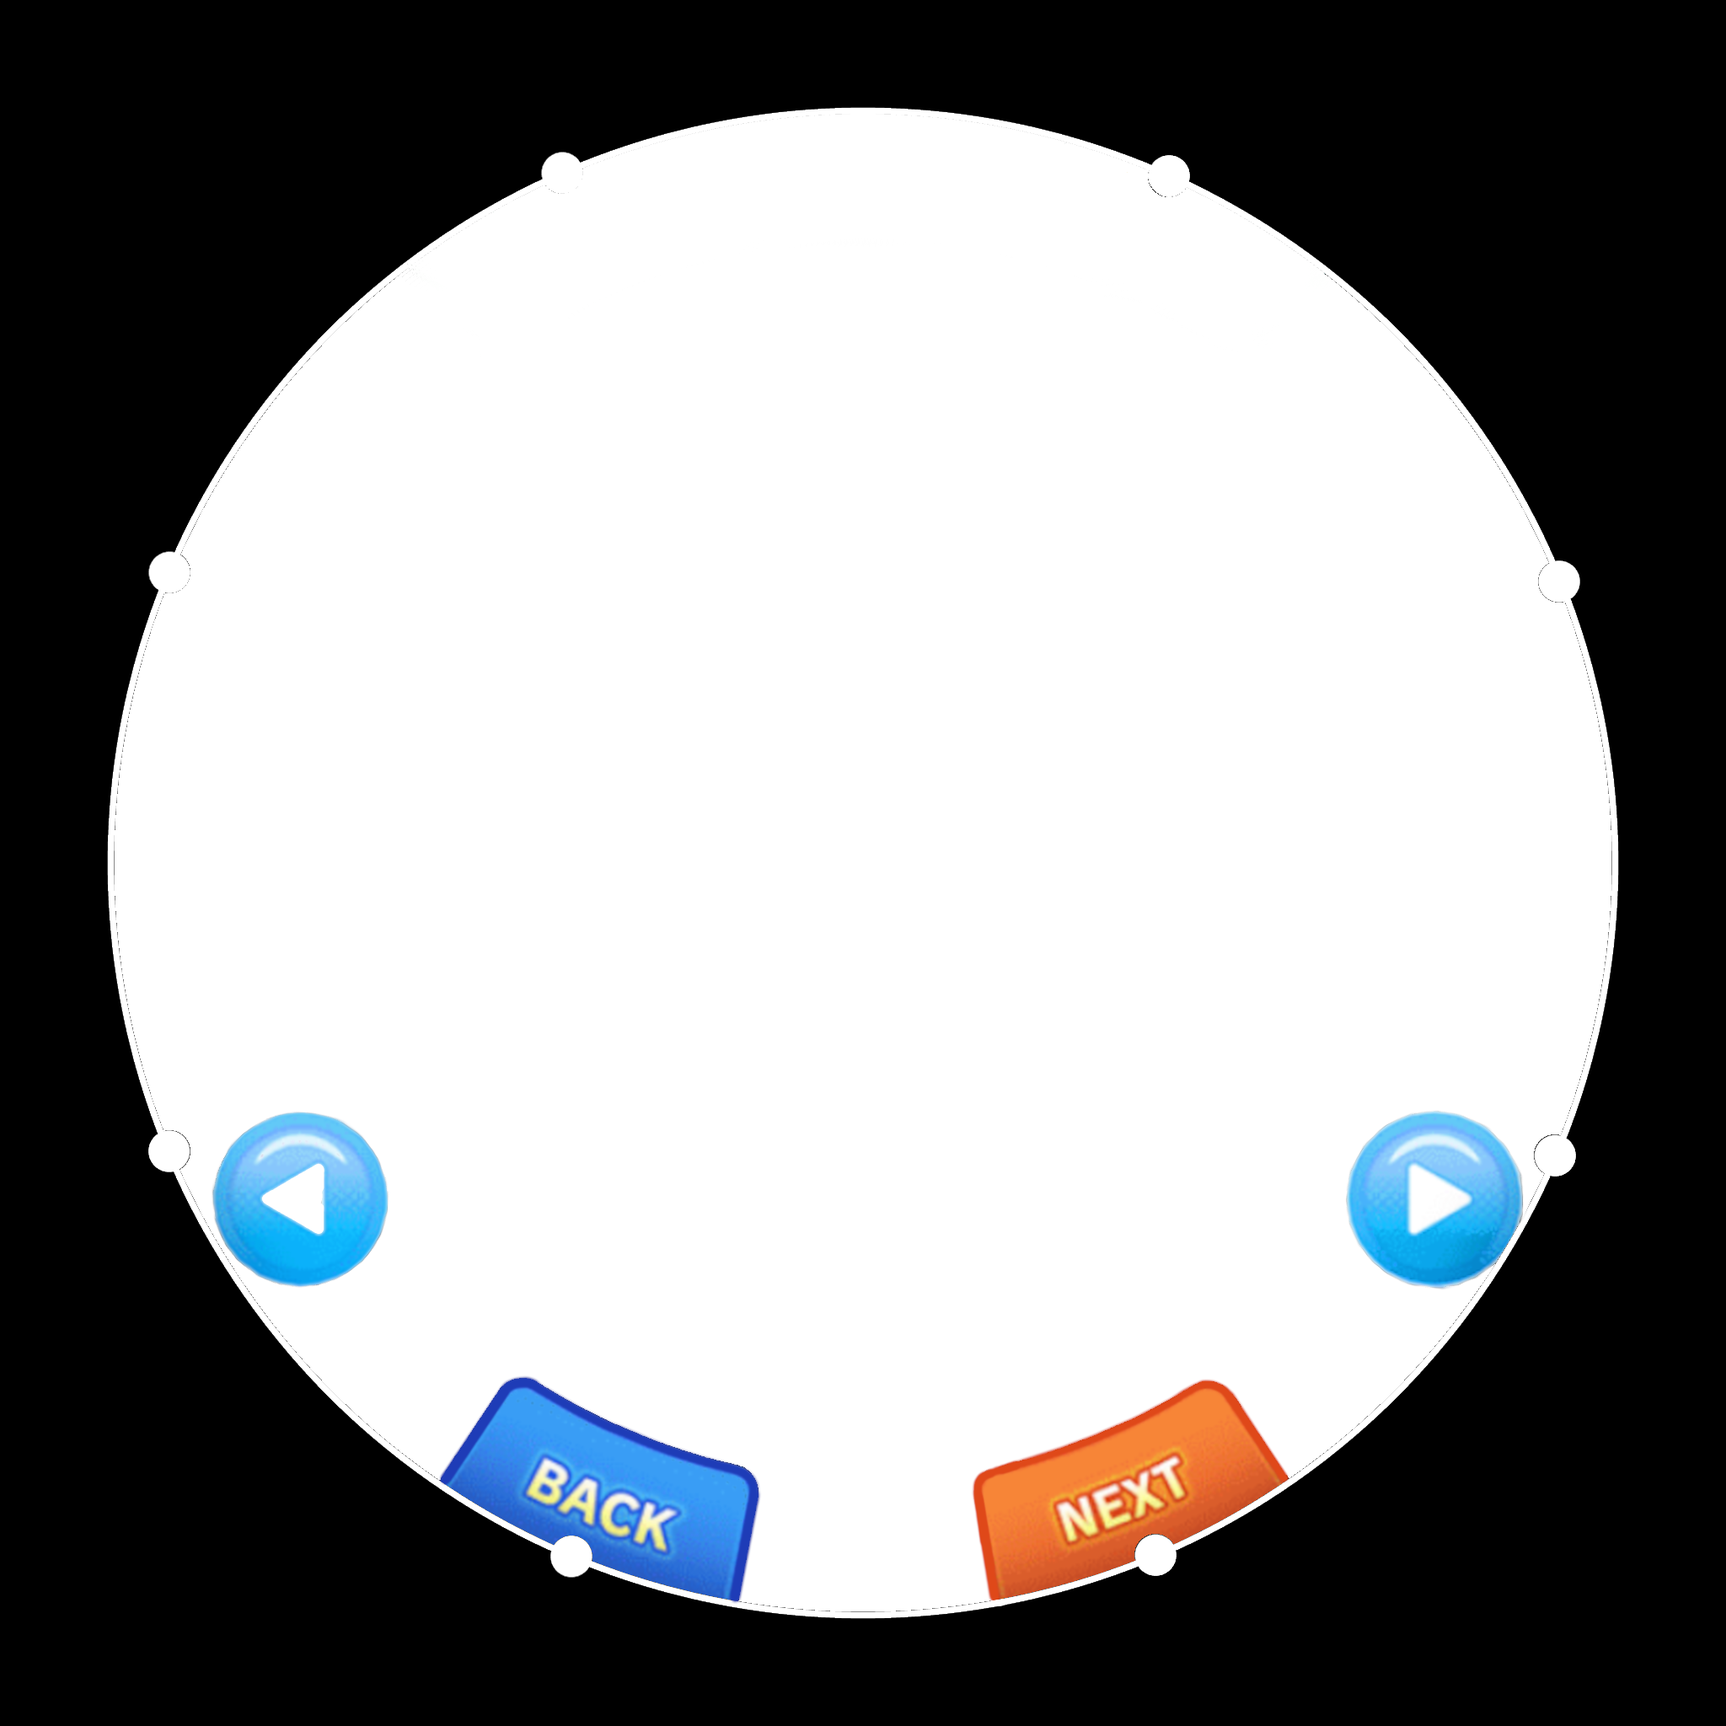
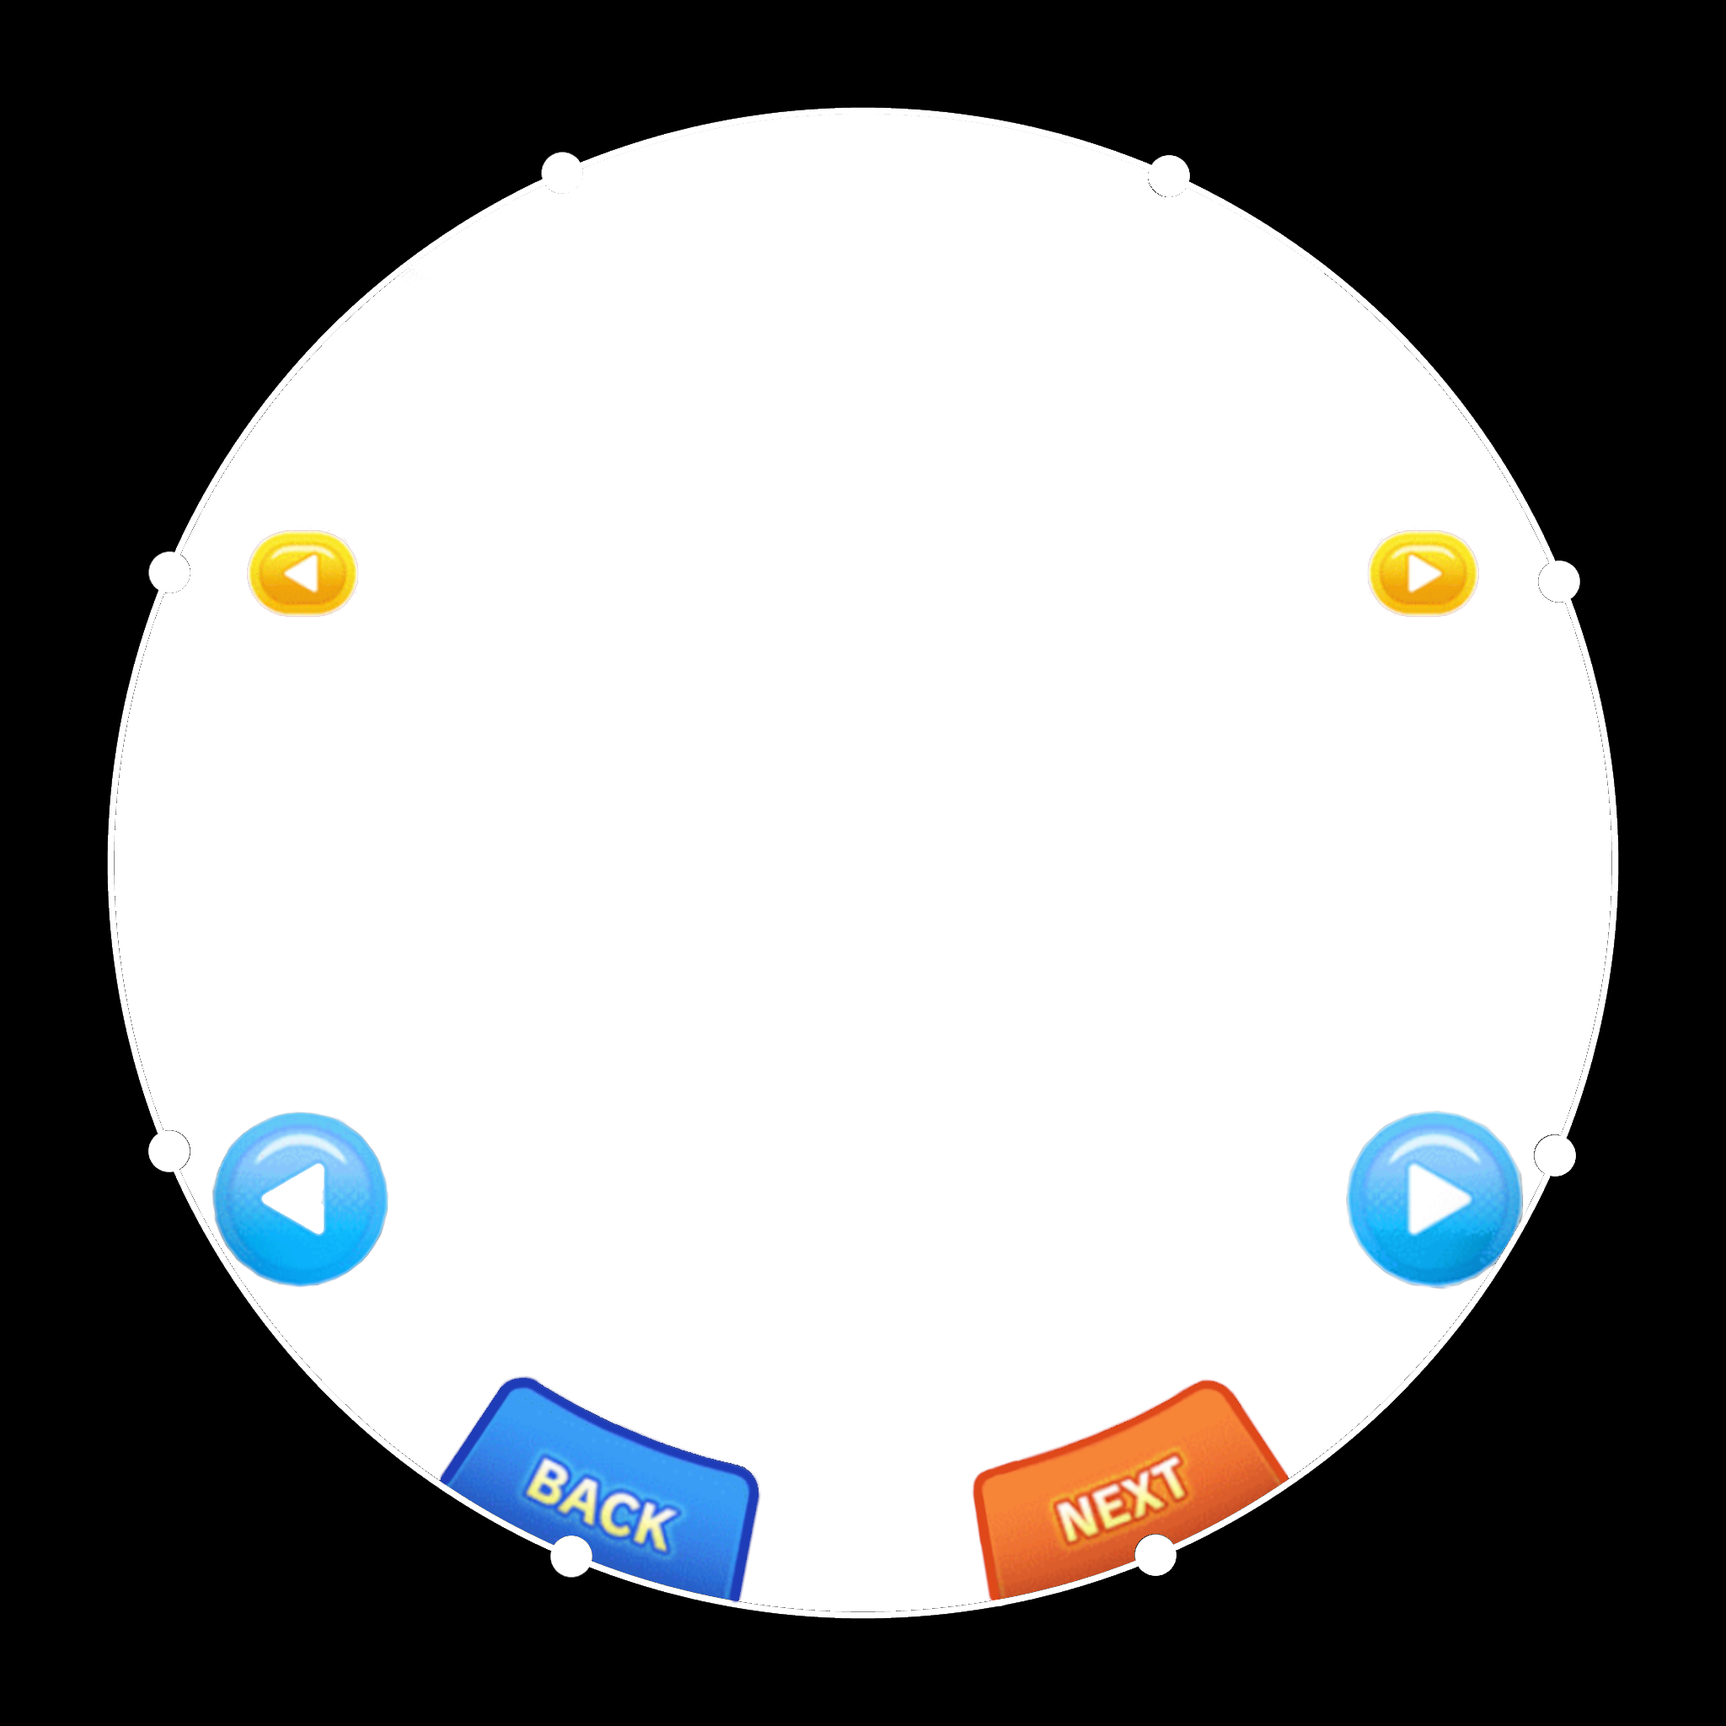
genre switch

Changed region(s): [[0.7812, 0.2812, 0.875, 0.375], [0.125, 0.2812, 0.2188, 0.375]]

diff --git a/assets/gui.py b/assets/gui.py
@@ -6,6 +6,10 @@ import os
 import threading
 from os import walk
 
+# class GenreSelectionGUI:
+#     def __init__(self,):
+#         pass
+
 def fade_image(image_path):
     display_size = pygame.display.Info().current_w , pygame.display.Info().current_h - 50
     screen = pygame.display.set_mode(display_size)
@@ -134,40 +138,60 @@ class MainGUI:
     def animate_in_chart(self, img):
         display_size = pygame.display.Info().current_w , pygame.display.Info().current_h
         w, h = display_size
+        diffcuiltynames  = [
+            '','',
+            'Basic',
+            'Advancced',
+            'Expert',
+            'Master',
+        ]
+        font = pygame.font.Font("./assets/fonts/japanese.ttf",15)
+        diffcuilty_surface = font.render(diffcuiltynames[self.diffcuilty], False, (0,0,0))
         for i in range (0,255,8): 
             img.set_alpha(i)         
             time.sleep(0.001)
             
             background_surface = pygame.Surface(display_size)
-            background_surface.fill(pygame.Color("#626262"))
+            background_surface.fill(pygame.Color("#000000"))
             background_surface2 = pygame.Surface((img.get_rect().width, img.get_rect().height))
             background_surface2.fill(pygame.Color('#FFFFFF'))
             
             self.display.blit(background_surface, (0, 0))
             self.display.blit(self.chartimg, self.chartpos)
-            self.display.blit(self.textsurface, ((0.5*w )- (self.textsurface.get_rect().centerx), 0.2*h - self.textsurface.get_rect().centery))
-
+            self.display.blit(self.textsurface, ((0.5*w )- (self.textsurface.get_rect().centerx), 0.3*h - self.textsurface.get_rect().centery))
+            
+            self.display.blit(diffcuilty_surface, (w/2 - diffcuilty_surface.get_rect().centerx,100))
             self.display.blit(background_surface2, (0.5*w - img.get_rect().centerx,0.5*h-img.get_rect().centery))
-            self.display.blit(img, (0.5*w - img.get_rect().centerx,0.5*h-img.get_rect().centery))
+            self.display.blit(img, (0.5*w - img.get_rect().centerx,0.55*h-img.get_rect().centery))
 
             pygame.display.update()
         self.oldselection = self.currentselection
     def animate_out_chart(self,img):
+        diffcuiltynames  = [
+            '','',
+            'Basic',
+            'Advancced',
+            'Expert',
+            'Master',
+        ]
+        font = pygame.font.Font("./assets/fonts/japanese.ttf",15)
+        diffcuilty_surface = font.render(diffcuiltynames[self.diffcuilty], False, (0,0,0))
         for i in range (255, 0, -8): 
             img.set_alpha(i)         
             time.sleep(0.001)
             display_size = pygame.display.Info().current_w , pygame.display.Info().current_h
             w, h = display_size
             background_surface = pygame.Surface(display_size)
-            background_surface.fill(pygame.Color("#626262"))
+            background_surface.fill(pygame.Color("#000000"))
             background_surface2 = pygame.Surface((img.get_rect().width, img.get_rect().height))
             background_surface2.fill(pygame.Color('#FFFFFF'))
             self.display.blit(background_surface, (0, 0))
             self.display.blit(self.chartimg, self.chartpos)
-            self.display.blit(self.textsurface, ((0.5*w )- (self.textsurface.get_rect().centerx), 0.2*h - self.textsurface.get_rect().centery))
-
+            self.display.blit(self.textsurface, ((0.5*w )- (self.textsurface.get_rect().centerx), 0.3*h - self.textsurface.get_rect().centery))
+            
+            self.display.blit(diffcuilty_surface, (w/2 - diffcuilty_surface.get_rect().centerx,100))
             self.display.blit(background_surface2, (0.5*w - img.get_rect().centerx,0.5*h-img.get_rect().centery))
-            self.display.blit(img, (0.5*w - img.get_rect().centerx,0.5*h-img.get_rect().centery))
+            self.display.blit(img, (0.5*w - img.get_rect().centerx,0.55*h-img.get_rect().centery))
             pygame.display.update()
     def run(self):
         self.diffcuilty = 2
@@ -184,9 +208,10 @@ class MainGUI:
         
 
         clock = pygame.time.Clock()
-        font = pygame.font.Font("./assets/fonts/japanese.ttf",20)
-        titlefont = pygame.font.Font("./assets/fonts/japanese.ttf",40)
-        titletext = titlefont.render('Python MaiMai Simulator', True, (0,0,0))
+        font = pygame.font.Font("./assets/fonts/japanese.ttf",15)
+        logofont = pygame.font.Font("./assets/fonts/japanese.ttf",40)
+        titlefont = pygame.font.Font("./assets/fonts/japanese.ttf",30)
+        titletext = logofont.render('Python MaiMai Simulator', True, (0,0,0))
         self.animate_in(titletext)
         
         
@@ -201,10 +226,10 @@ class MainGUI:
         self.chartpos = self.chartimg.get_rect(center = self.display.get_rect().center) 
 
         background_surface = pygame.Surface(display_size)
-        background_surface.fill(pygame.Color("#626262"))
+        background_surface.fill(pygame.Color("#000000"))
         
         
-        self.textsurface = font.render(genre, True, (0, 0, 0))
+        self.textsurface = titlefont.render(genre, True, (0, 0, 0))
         
         self.currentselection = 0
         
@@ -226,12 +251,11 @@ class MainGUI:
         print(genre)
         pressedlist = []
 
-        self.currentselectionflock = Lock()
-        self.currentselectionblock = Lock()
+        self.buttonlock = [0,0,0,0,0,0,0,0]
         self.oldselection = 0
         # background_surface.blit(background_surface, (0, 0))
         background_surface.blit(self.chartimg, self.chartpos)
-        background_surface.blit(self.textsurface, ((0.5*w )- (self.textsurface.get_rect().centerx), 0.2*h - self.textsurface.get_rect().centery))
+        background_surface.blit(self.textsurface, ((0.5*w )- (self.textsurface.get_rect().centerx), 0.3*h - self.textsurface.get_rect().centery))
         for song in self.songlist:
             if song.genre == genre:
                 # print(self.path+self.genrelist[genre])
@@ -247,12 +271,12 @@ class MainGUI:
             songimg = pygame.image.load(io.BytesIO(zip.read(song.img)))
 
         
-        songsurface = pygame.Surface((0.5*h, 0.5*h))
+        songsurface = pygame.Surface((0.25*h, 0.30*h))
         songsurface.fill((255,255,255))
-        songsurface.blit(pygame.transform.scale(songimg, (0.45*h,0.45*h)), (0.025*h,0))
+        songsurface.blit(pygame.transform.scale(songimg, (0.225*h,0.225*h)), (0.0125*h,0))
         text = font.render(song.name, True, (0,0,0))
-        songsurface.blit(text, (songsurface.get_rect().centerx-text.get_rect().centerx, 0.9*songsurface.get_rect().height))
-        background_surface.blit(songsurface, (0.5*w - songsurface.get_rect().centerx,0.5*h-songsurface.get_rect().centery))
+        songsurface.blit(text, (songsurface.get_rect().centerx-text.get_rect().centerx, 0.85*songsurface.get_rect().height))
+        background_surface.blit(songsurface, (0.5*w - songsurface.get_rect().centerx,0.55*h-songsurface.get_rect().centery))
         time.sleep(0.5)
         clock.tick(60)
         self.animate_out(titletext)
@@ -266,7 +290,7 @@ class MainGUI:
             
             self.display.blit(background_surface, (0, 0))
             self.display.blit(self.chartimg, self.chartpos)
-            self.display.blit(self.textsurface, ((0.5*w )- (self.textsurface.get_rect().centerx), 0.2*h - self.textsurface.get_rect().centery))
+            self.display.blit(self.textsurface, ((0.5*w )- (self.textsurface.get_rect().centerx), 0.30*h - self.textsurface.get_rect().centery))
             if self.currentselection < 0:
                 self.currentselection = 0
             if self.currentselection > self.nextgenreindex-self.genreoffset:
@@ -274,26 +298,26 @@ class MainGUI:
             if self.oldselection != self.currentselection:
                 self.animate_out_chart(songsurface)
                 song = self.songlist[self.currentselection]
-                songsurface = pygame.Surface((0.5*h, 0.5*h))
+                songsurface = pygame.Surface((0.25*h, 0.30*h))
                 songsurface.fill((255,255,255))
                 song = self.songlist[self.genreoffset+self.currentselection]
                 with ZipFile(self.path+self.genrelist[genre], 'r') as zip: 
                     songimg = pygame.image.load(io.BytesIO(zip.read(song.img)))
-                songsurface.blit(pygame.transform.scale(songimg, (0.45*h,0.45*h)), (0.025*h,0))
+                songsurface.blit(pygame.transform.scale(songimg, (0.225*h,0.225*h)), (0.0125*h,0))
                 text = font.render(song.name, True, (0,0,0))
-                songsurface.blit(text, (songsurface.get_rect().centerx-text.get_rect().centerx, 0.9*songsurface.get_rect().height))
+                songsurface.blit(text, (songsurface.get_rect().centerx-text.get_rect().centerx, 0.85*songsurface.get_rect().height))
                 self.animate_in_chart(songsurface)
             else:
                 song = self.songlist[self.currentselection]
-                songsurface = pygame.Surface((0.5*h, 0.5*h))
+                songsurface = pygame.Surface((0.25*h, 0.30*h))
                 songsurface.fill((255,255,255))
                 song = self.songlist[self.genreoffset+self.currentselection]
                 with ZipFile(self.path+self.genrelist[genre], 'r') as zip: 
                     songimg = pygame.image.load(io.BytesIO(zip.read(song.img)))
-                songsurface.blit(pygame.transform.scale(songimg, (0.45*h,0.45*h)), (0.025*h,0))
+                songsurface.blit(pygame.transform.scale(songimg, (0.225*h,0.225*h)), (0.0125*h,0))
                 text = font.render(song.name, True, (0,0,0))
-                songsurface.blit(text, (songsurface.get_rect().centerx-text.get_rect().centerx, 0.9*songsurface.get_rect().height))
-                self.display.blit(songsurface, (0.5*w - songsurface.get_rect().centerx,0.5*h-songsurface.get_rect().centery))
+                songsurface.blit(text, (songsurface.get_rect().centerx-text.get_rect().centerx, 0.85*songsurface.get_rect().height))
+                self.display.blit(songsurface, (0.5*w - songsurface.get_rect().centerx,0.55*h-songsurface.get_rect().centery))
                 
             for event in pygame.event.get():
                 if event.type == pygame.QUIT:
@@ -333,26 +357,65 @@ class MainGUI:
                             # print(f'Button {touch} up')
                             pressedlist.remove(touch)
 
-            
+            if 1 in pressedlist:
+                if self.buttonlock[1] == 0:
+                    index = list(self.genrelist).index(genre) + 1
+                    if index == len(self.genrelist):
+                        index = 0
+                    
+                    genre = list(self.genrelist)[index]
+                    self.textsurface = titlefont.render(genre, True, (0, 0, 0))
+                    for song in self.songlist:
+                        if song.genre == genre:
+                            # print(self.path+self.genrelist[genre])
+                            self.genreoffset = self.songlist.index(song)
+                            for song in self.songlist[self.genreoffset+1:]:
+                                if song.genre != genre:
+                                    self.nextgenreindex = self.songlist.index(song)
+                                    break
+                            break
+                self.buttonlock[1] += 1
+            elif self.buttonlock[1] >= 5:
+                self.buttonlock[1] = 0
+            if 6 in pressedlist:
+                if self.buttonlock[6] == 0:
+                    index = list(self.genrelist).index(genre) - 1
+                    if index > 0:
+                        index = len(self.genrelist)-1
+                    genre = list(self.genrelist)[index]
+                    self.textsurface = titlefont.render(genre, True, (0, 0, 0))
+                    for song in self.songlist:
+                        if song.genre == genre:
+                            # print(self.path+self.genrelist[genre])
+                            self.genreoffset = self.songlist.index(song)
+                            for song in self.songlist[self.genreoffset+1:]:
+                                if song.genre != genre:
+                                    self.nextgenreindex = self.songlist.index(song)
+                                    break
+                            break
+
+                self.buttonlock[6] += 1
+            elif self.buttonlock[6] >= 5:
+                self.buttonlock[6] = 0
                 
             if 2 in pressedlist:
-                if self.currentselectionflock.counter == 0:
+                if self.buttonlock[2] == 0:
                     self.currentselection += 1
                     print(self.currentselection)
-                self.currentselectionflock.counter += 1
-            elif self.currentselectionflock.counter >= 5:
-                self.currentselectionflock.counter = 0
+                self.buttonlock[2] += 1
+            elif self.buttonlock[2] >= 5:
+                self.buttonlock[2] = 0
 
             if 5 in pressedlist:
-                if self.currentselectionblock.counter == 0:
+                if self.buttonlock[5] == 0:
                     self.currentselection -= 1
                     print(self.currentselection)
-                self.currentselectionblock.counter += 1
-            elif self.currentselectionblock.counter >= 5:
-                self.currentselectionblock.counter = 0
-
+                self.buttonlock[5] += 1
+            elif self.buttonlock[5] >= 5:
+                self.buttonlock[5] = 0
+            
             if 3 in pressedlist:
-                if self.currentselectionblock.counter == 0:
+                if self.buttonlock[3] == 0:
                     clock.tick(5)
                     self.animate_out_chart(songsurface)
                     self.play_chart(song.genre, song.id)
@@ -360,27 +423,35 @@ class MainGUI:
                     pressedlist.remove(3)
                     self.animate_in_chart(songsurface)
 
-                self.currentselectionblock.counter += 1
-            elif self.currentselectionblock.counter >= 5:
-                self.currentselectionblock.counter = 0
+                self.buttonlock[3] += 1
+            elif self.buttonlock[3] >= 5:
+                self.buttonlock[3] = 0
+
+            if 4 in pressedlist:
+                if self.buttonlock[4] == 0:
+                    pass
+
+                self.buttonlock[4] += 1
+            elif self.buttonlock[4] >= 5:
+                self.buttonlock[4] = 0
 
             if 0 in pressedlist:
-                if self.currentselectionblock.counter == 0:
+                if self.buttonlock[0] == 0:
                     self.diffcuilty += 1
                     if self.diffcuilty >= len(diffcuiltynames)-1:
                         self.diffcuilty = len(diffcuiltynames)-1
-                self.currentselectionblock.counter += 1
-            elif self.currentselectionblock.counter >= 5:
-                self.currentselectionblock.counter = 0
+                self.buttonlock[0] += 1
+            elif self.buttonlock[0] >= 5:
+                self.buttonlock[0] = 0
 
             if 7 in pressedlist:
-                if self.currentselectionblock.counter == 0:
+                if self.buttonlock[7] == 0:
                     self.diffcuilty -= 1
                     if self.diffcuilty <= 0:
                         self.diffcuilty = 0
-                self.currentselectionblock.counter += 1
-            elif self.currentselectionblock.counter >= 5:
-                self.currentselectionblock.counter = 0
+                self.buttonlock[7] += 1
+            elif self.buttonlock[7] >= 5:
+                self.buttonlock[7] = 0
             diffcuilty_surface = font.render(diffcuiltynames[self.diffcuilty], False, (0,0,0))
             self.display.blit(diffcuilty_surface, (w/2 - diffcuilty_surface.get_rect().centerx,100))
 
@@ -392,9 +463,9 @@ class MainGUI:
         # test code
         # self.play_chart('ゲームバラエティ', '734')
 
-class Lock:
-    def __init__(self,):
-        self.counter = 0
+class Lock(list):
+    pass
+
                         
 
 class Chart:
